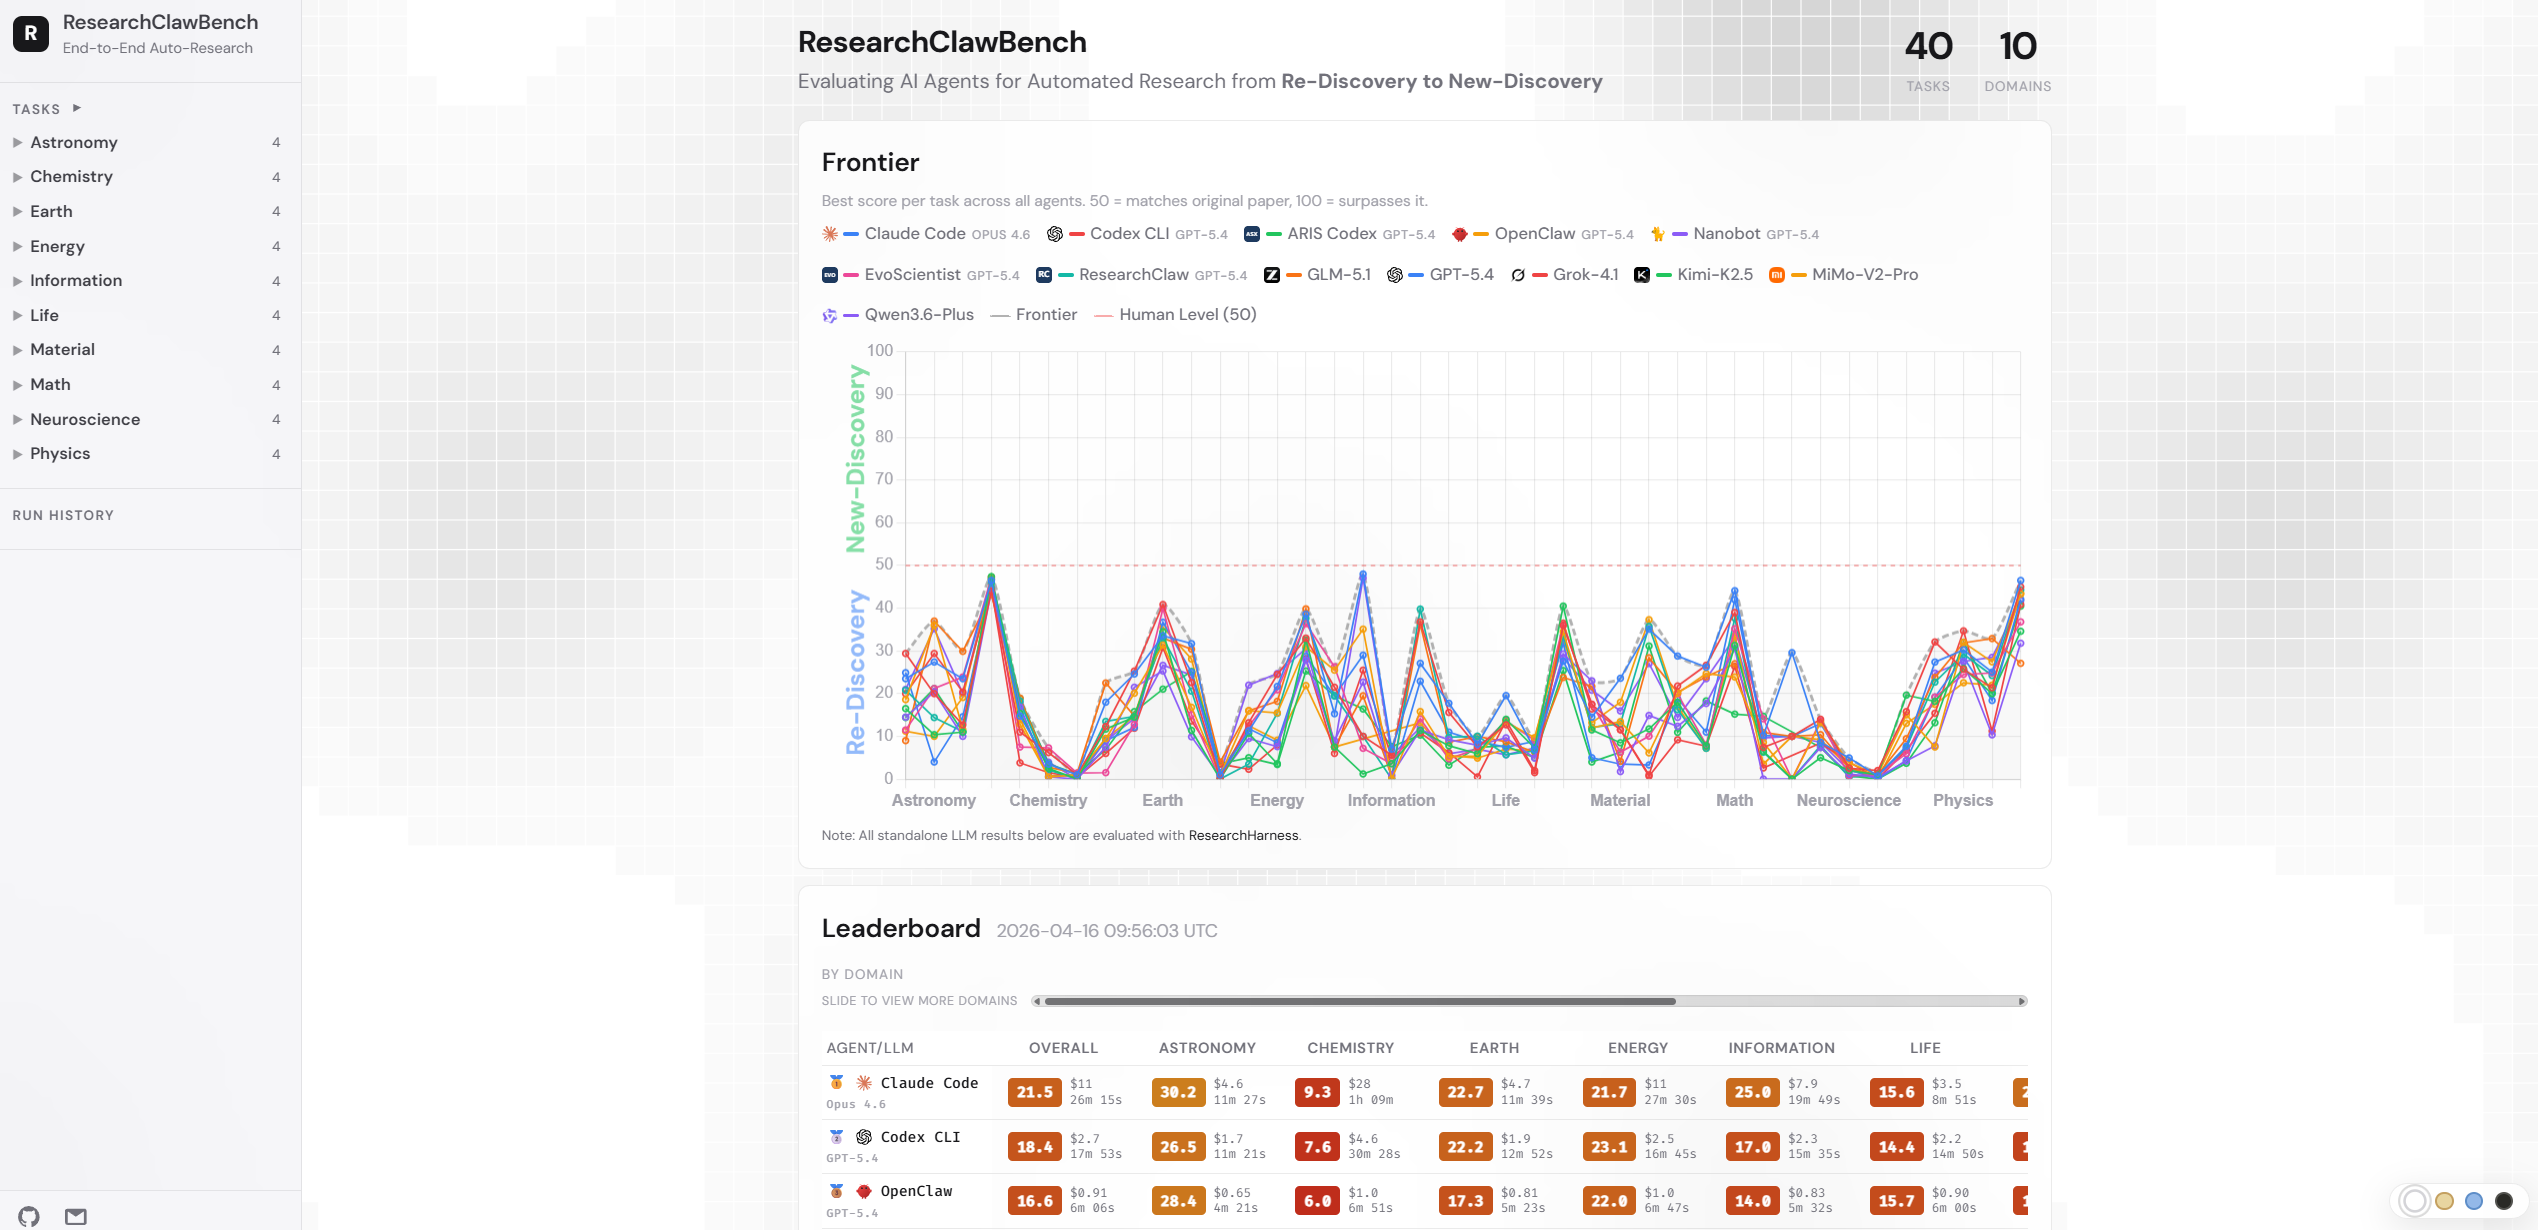
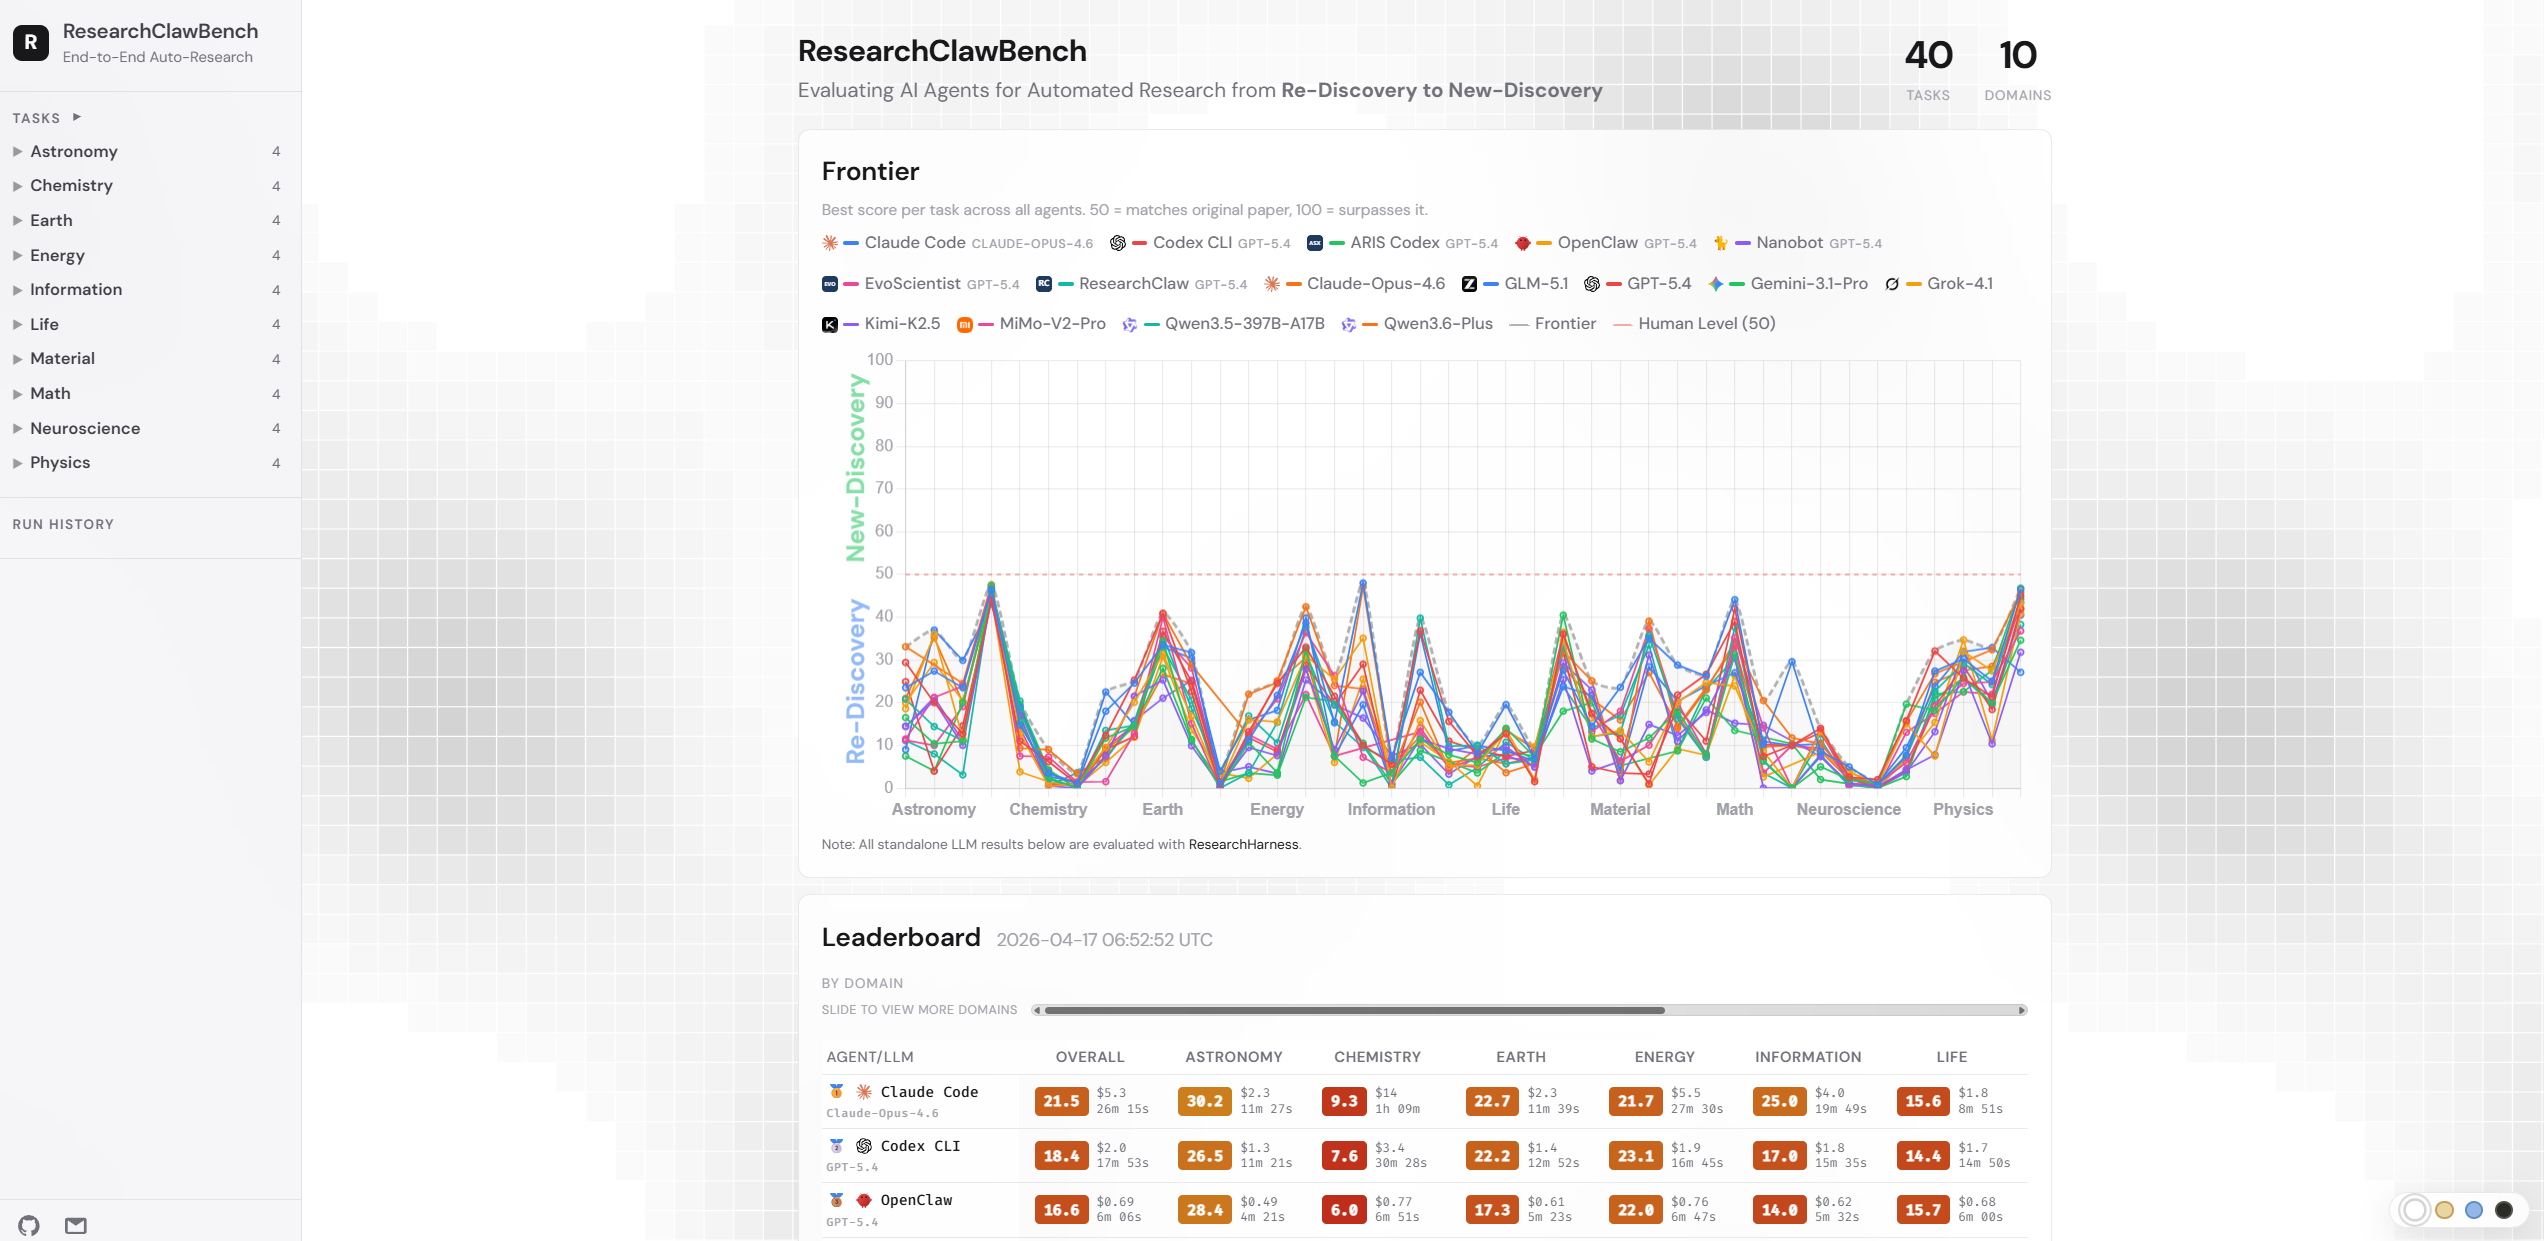
Update leaderboard asset and README highlights

diff --git a/README.md b/README.md
@@ -39,7 +39,7 @@ Unlike benchmarks that test coding ability or factual recall, ResearchClawBench 
 <td align="center" width="25%">🔄<br/><b>Two-Stage Pipeline</b><br/><sub>Autonomous research + rigorous peer-review-style evaluation</sub></td>
 <td align="center" width="25%">🧪<br/><b>40 Real-Science Tasks</b><br/><sub>10 disciplines, curated datasets from published papers</sub></td>
 <td align="center" width="25%">👁<br/><b>Expert-Annotated Data</b><br/><sub>Tasks, checklists & datasets curated by domain experts</sub></td>
-<td align="center" width="25%">🤖<br/><b>Multi-Agent Support</b><br/><sub>Claude Code, Codex CLI, ARIS Codex, OpenClaw, Nanobot, EvoScientist, ResearchClaw, ResearchHarness & custom agents</sub></td>
+<td align="center" width="25%">🤖<br/><b>Multi-Agent Support</b><br/><sub>Claude Code, Codex CLI, OpenClaw, ResearchClaw, ... & custom agents</sub></td>
 </tr>
 <tr>
 <td align="center">🚀<br/><b>Re-Discovery to New-Discovery</b><br/><sub>50 = match the paper, 70+ = surpass it</sub></td>
